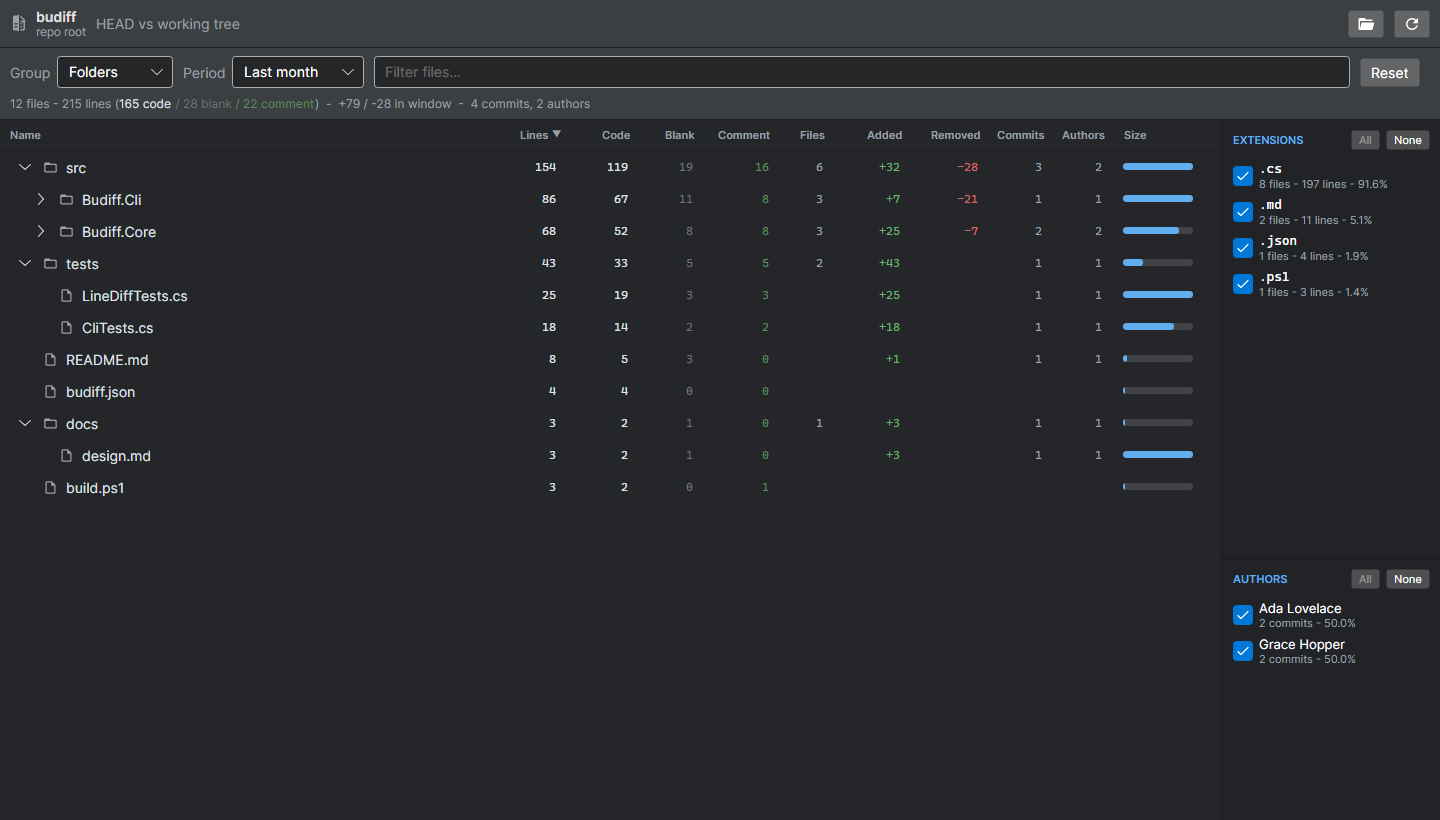
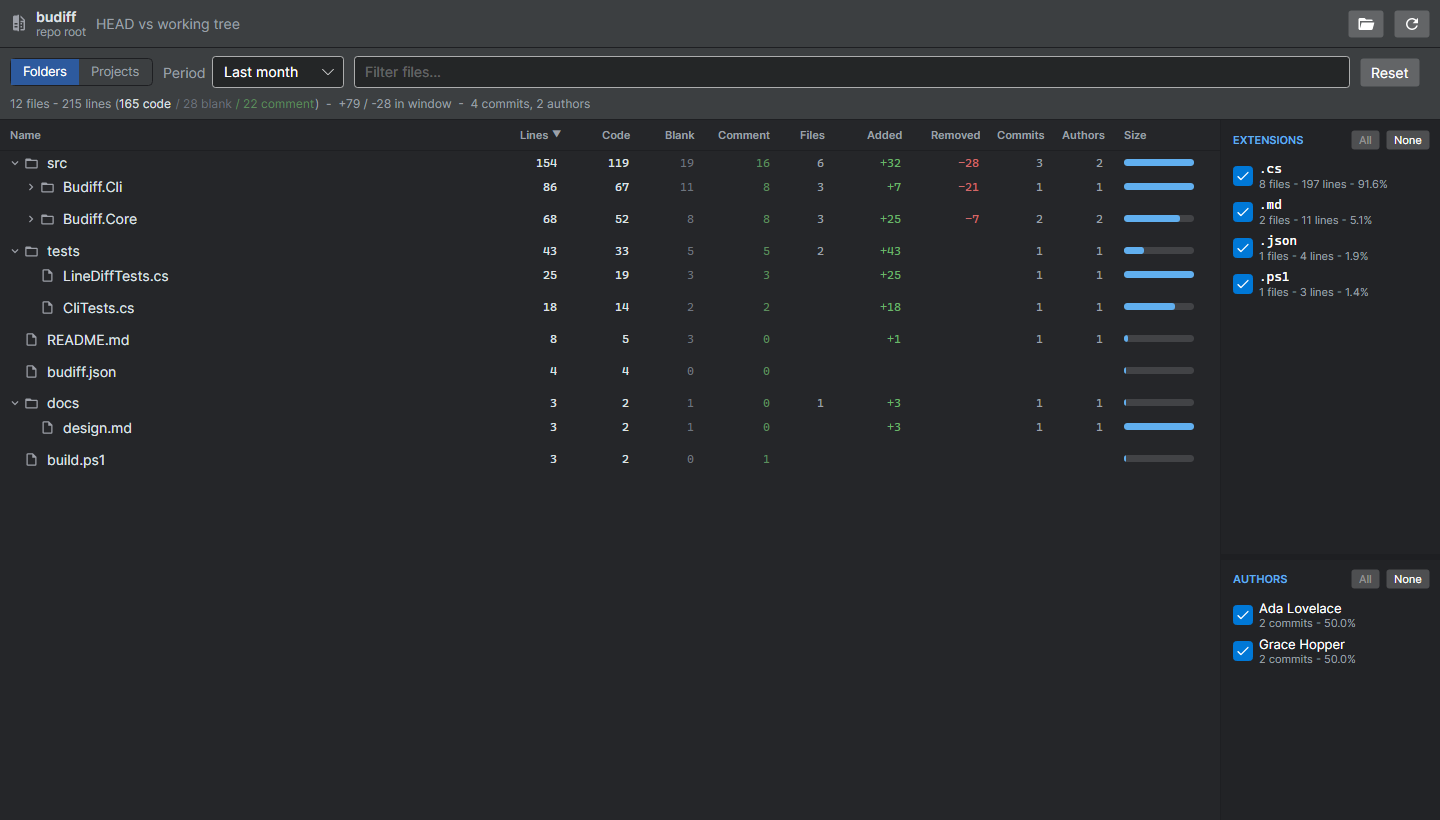
Bird's-eye: segmented Folders/Projects toggle replaces the Group combo (#49)
A binary choice does not need a dropdown: the Group ComboBox is now a
two-segment switch - both labels always visible, the active side
highlighted, one click flips. README screenshots refreshed (they also
pick up the chromeless tree rows from #43).

Closes #49.

diff --git a/src/Budiff.App/CodeAnalysisPanelViewModel.cs b/src/Budiff.App/CodeAnalysisPanelViewModel.cs
@@ -723,7 +723,20 @@ public sealed partial class CodeAnalysisPanelViewModel : ObservableObject
         }
     }
 
-    partial void OnSelectedGroupingChanged(GroupingOption value) => Rebuild();
+    // The segmented Folders/Projects toggle highlights the active side.
+    public bool IsFoldersGrouping => SelectedGrouping.Value == AnalysisGrouping.Folders;
+
+    public bool IsProjectsGrouping => SelectedGrouping.Value == AnalysisGrouping.Projects;
+
+    [RelayCommand]
+    private void SelectGrouping(GroupingOption option) => SelectedGrouping = option;
+
+    partial void OnSelectedGroupingChanged(GroupingOption value)
+    {
+        OnPropertyChanged(nameof(IsFoldersGrouping));
+        OnPropertyChanged(nameof(IsProjectsGrouping));
+        Rebuild();
+    }
 
     partial void OnSelectedPeriodChanged(PeriodOption value)
     {
